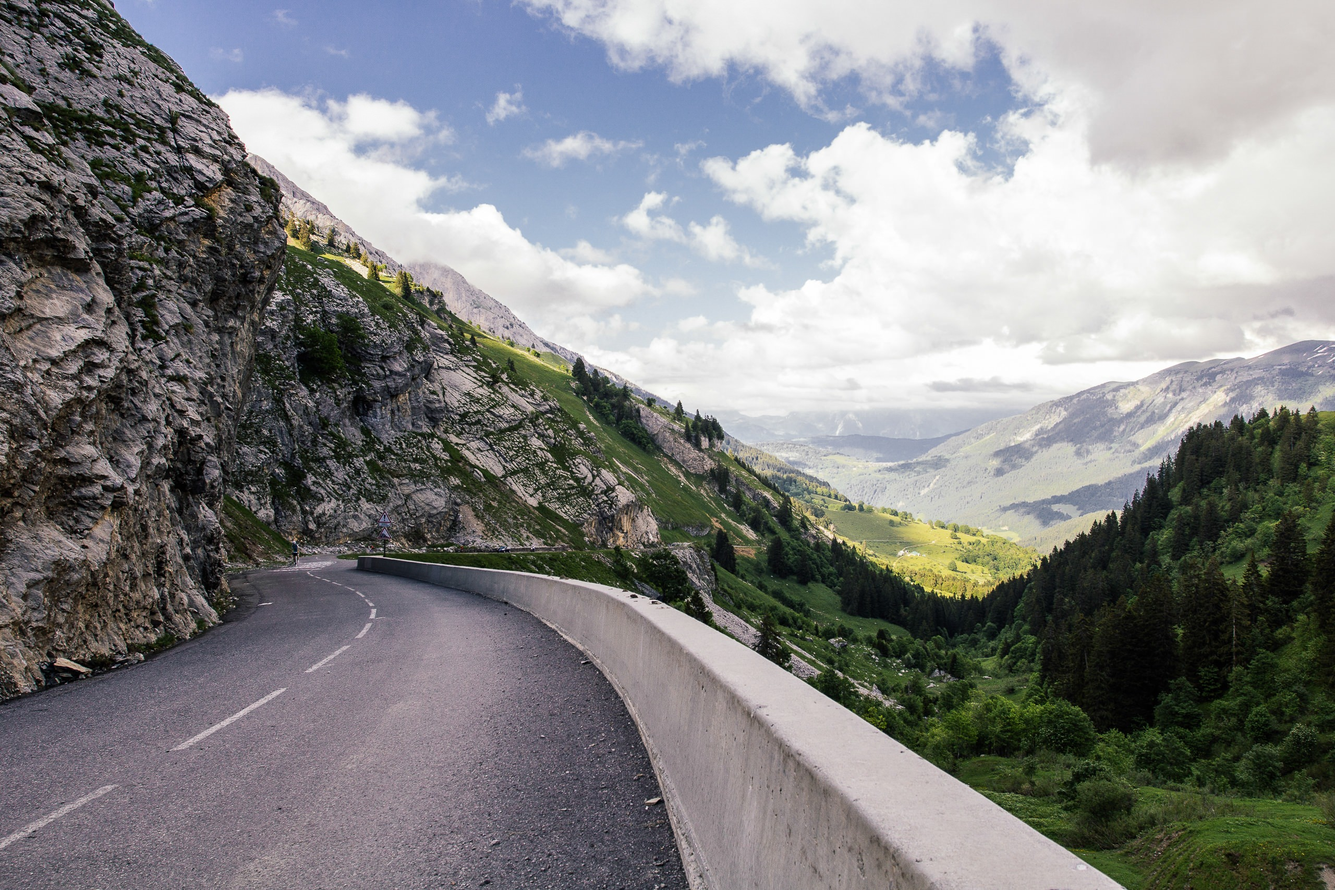
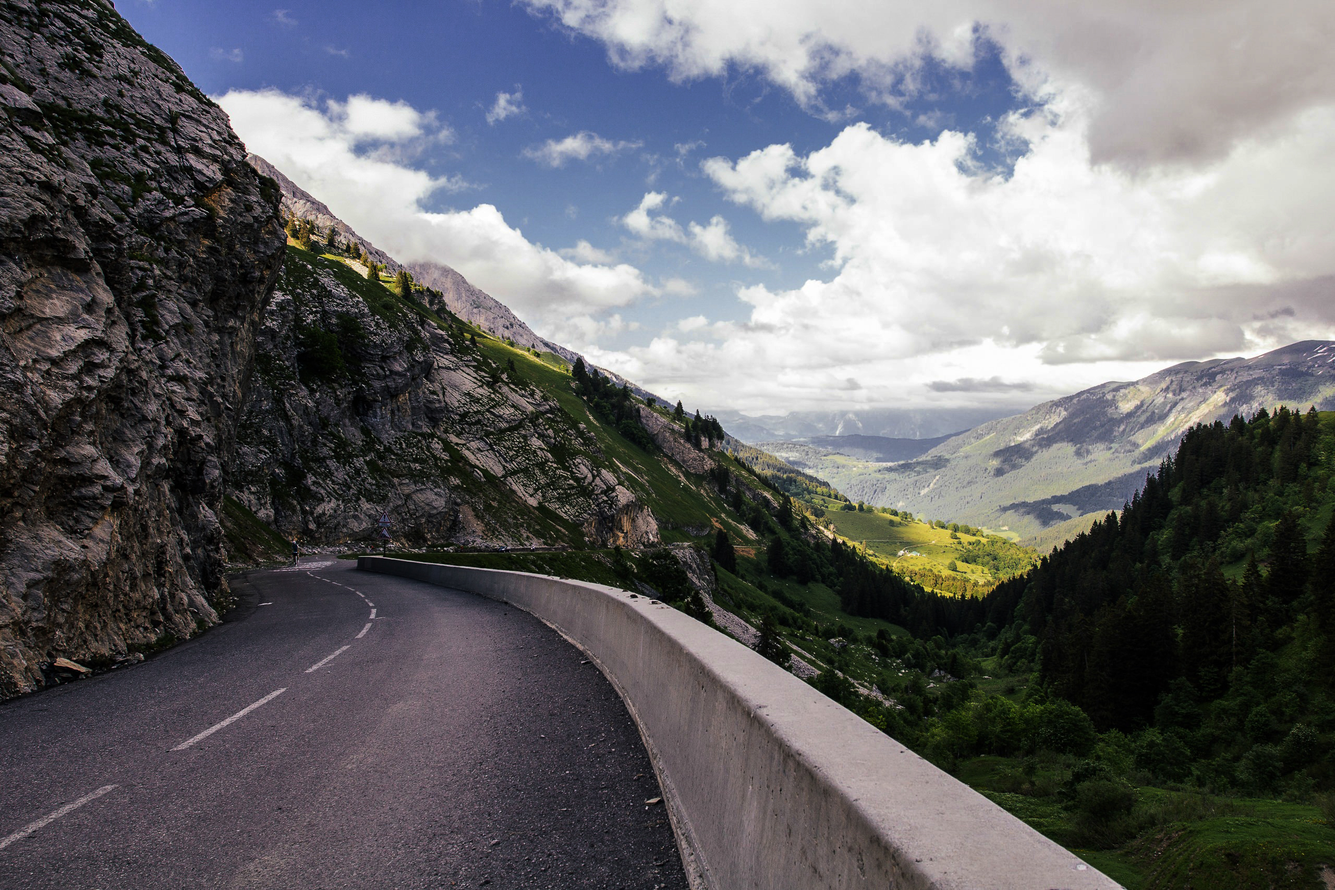
added weather background images

diff --git a/index.html b/index.html
@@ -6,7 +6,7 @@
 	<link href='http://fonts.googleapis.com/css?family=Montserrat' rel='stylesheet' type='text/css'>
 	<style>
 		body, html{
-			background: #333 url('imgs/bikenow-min.jpg') no-repeat center center fixed ;
+			background: #333 url('imgs/bikenow2.jpg') no-repeat center center fixed ;
 			background-size: cover;
 			height:100%;
 			width:100%;

diff --git a/zip.php b/zip.php
@@ -12,11 +12,13 @@
   <style>
   <?php 
   if($condition == "rain"){
-  	echo "body, html { background: #333 url('imgs/rain.jpg') center center no-repeat fixed; background-size:cover; }";
+  	echo "html { background: #333 url(imgs/rain1.JPG) center center no-repeat fixed; background-size:cover; }";
   }else{
-  echo "body, html { background: #333 url('imgs/bikenow4.jpg') center center no-repeat fixed; background-size:cover; }";
+  echo "html { background: #333 url(imgs/bikenow1.JPG) center center no-repeat fixed; background-size:cover; -webkit-background-size: cover; -moz-background-size: cover;-o-background-size: cover; background-size: cover;}";
 }
   ?>
+ 
+  	}
   </style>
 <?php
 
